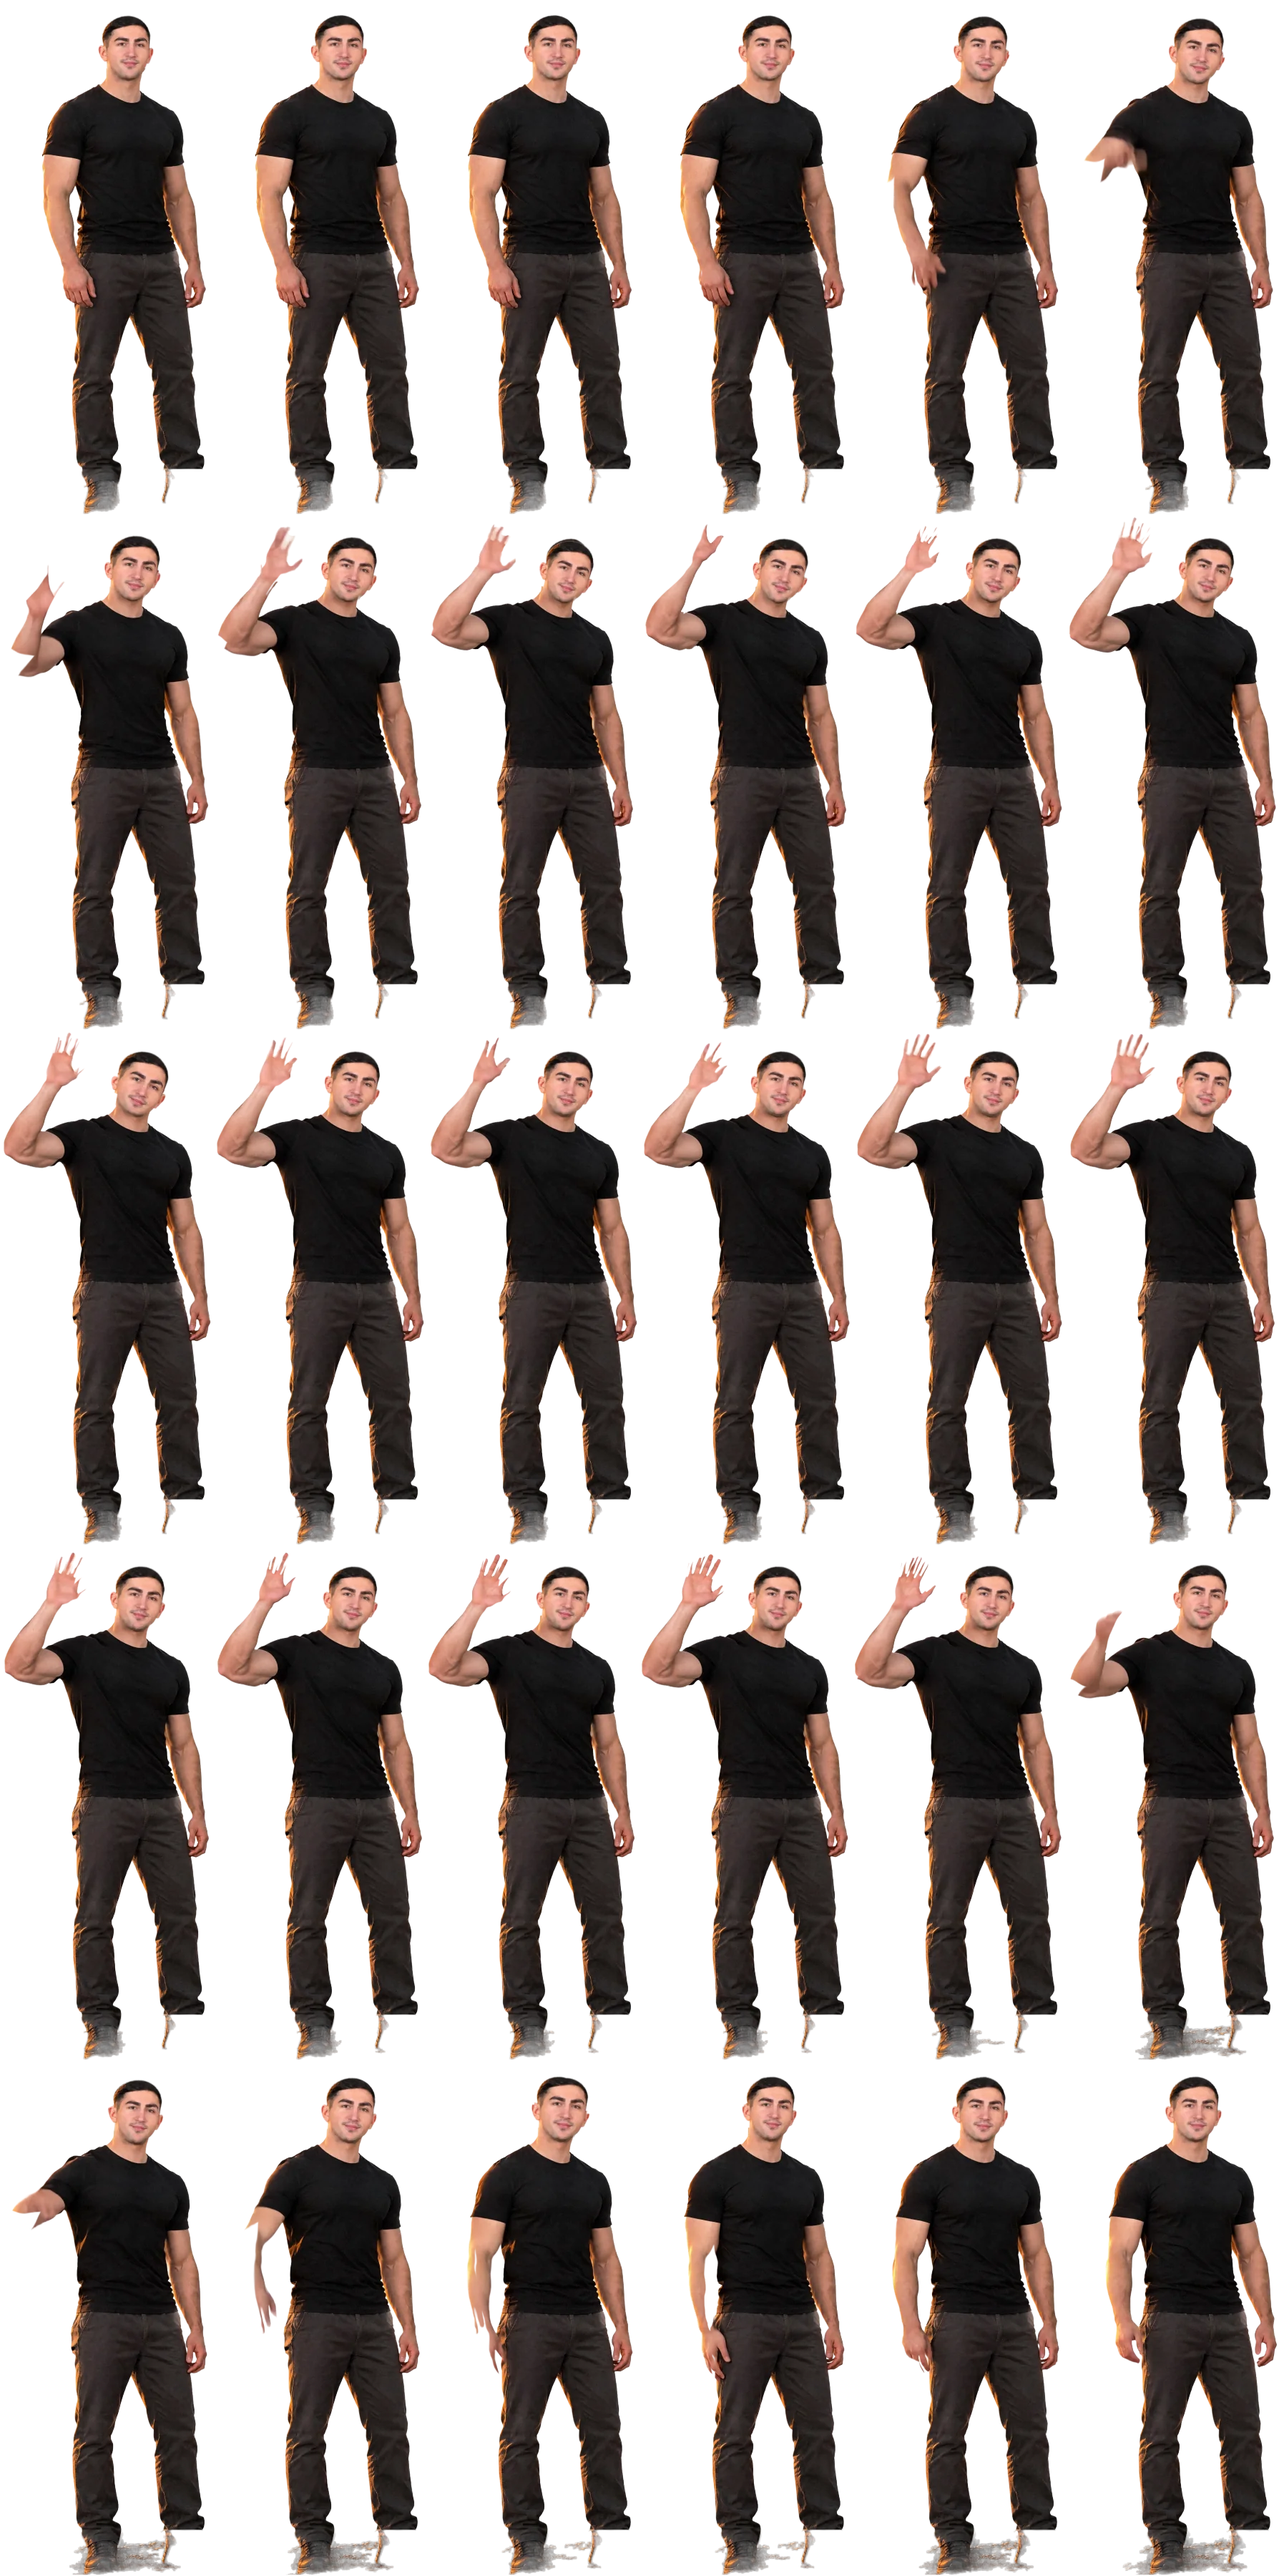
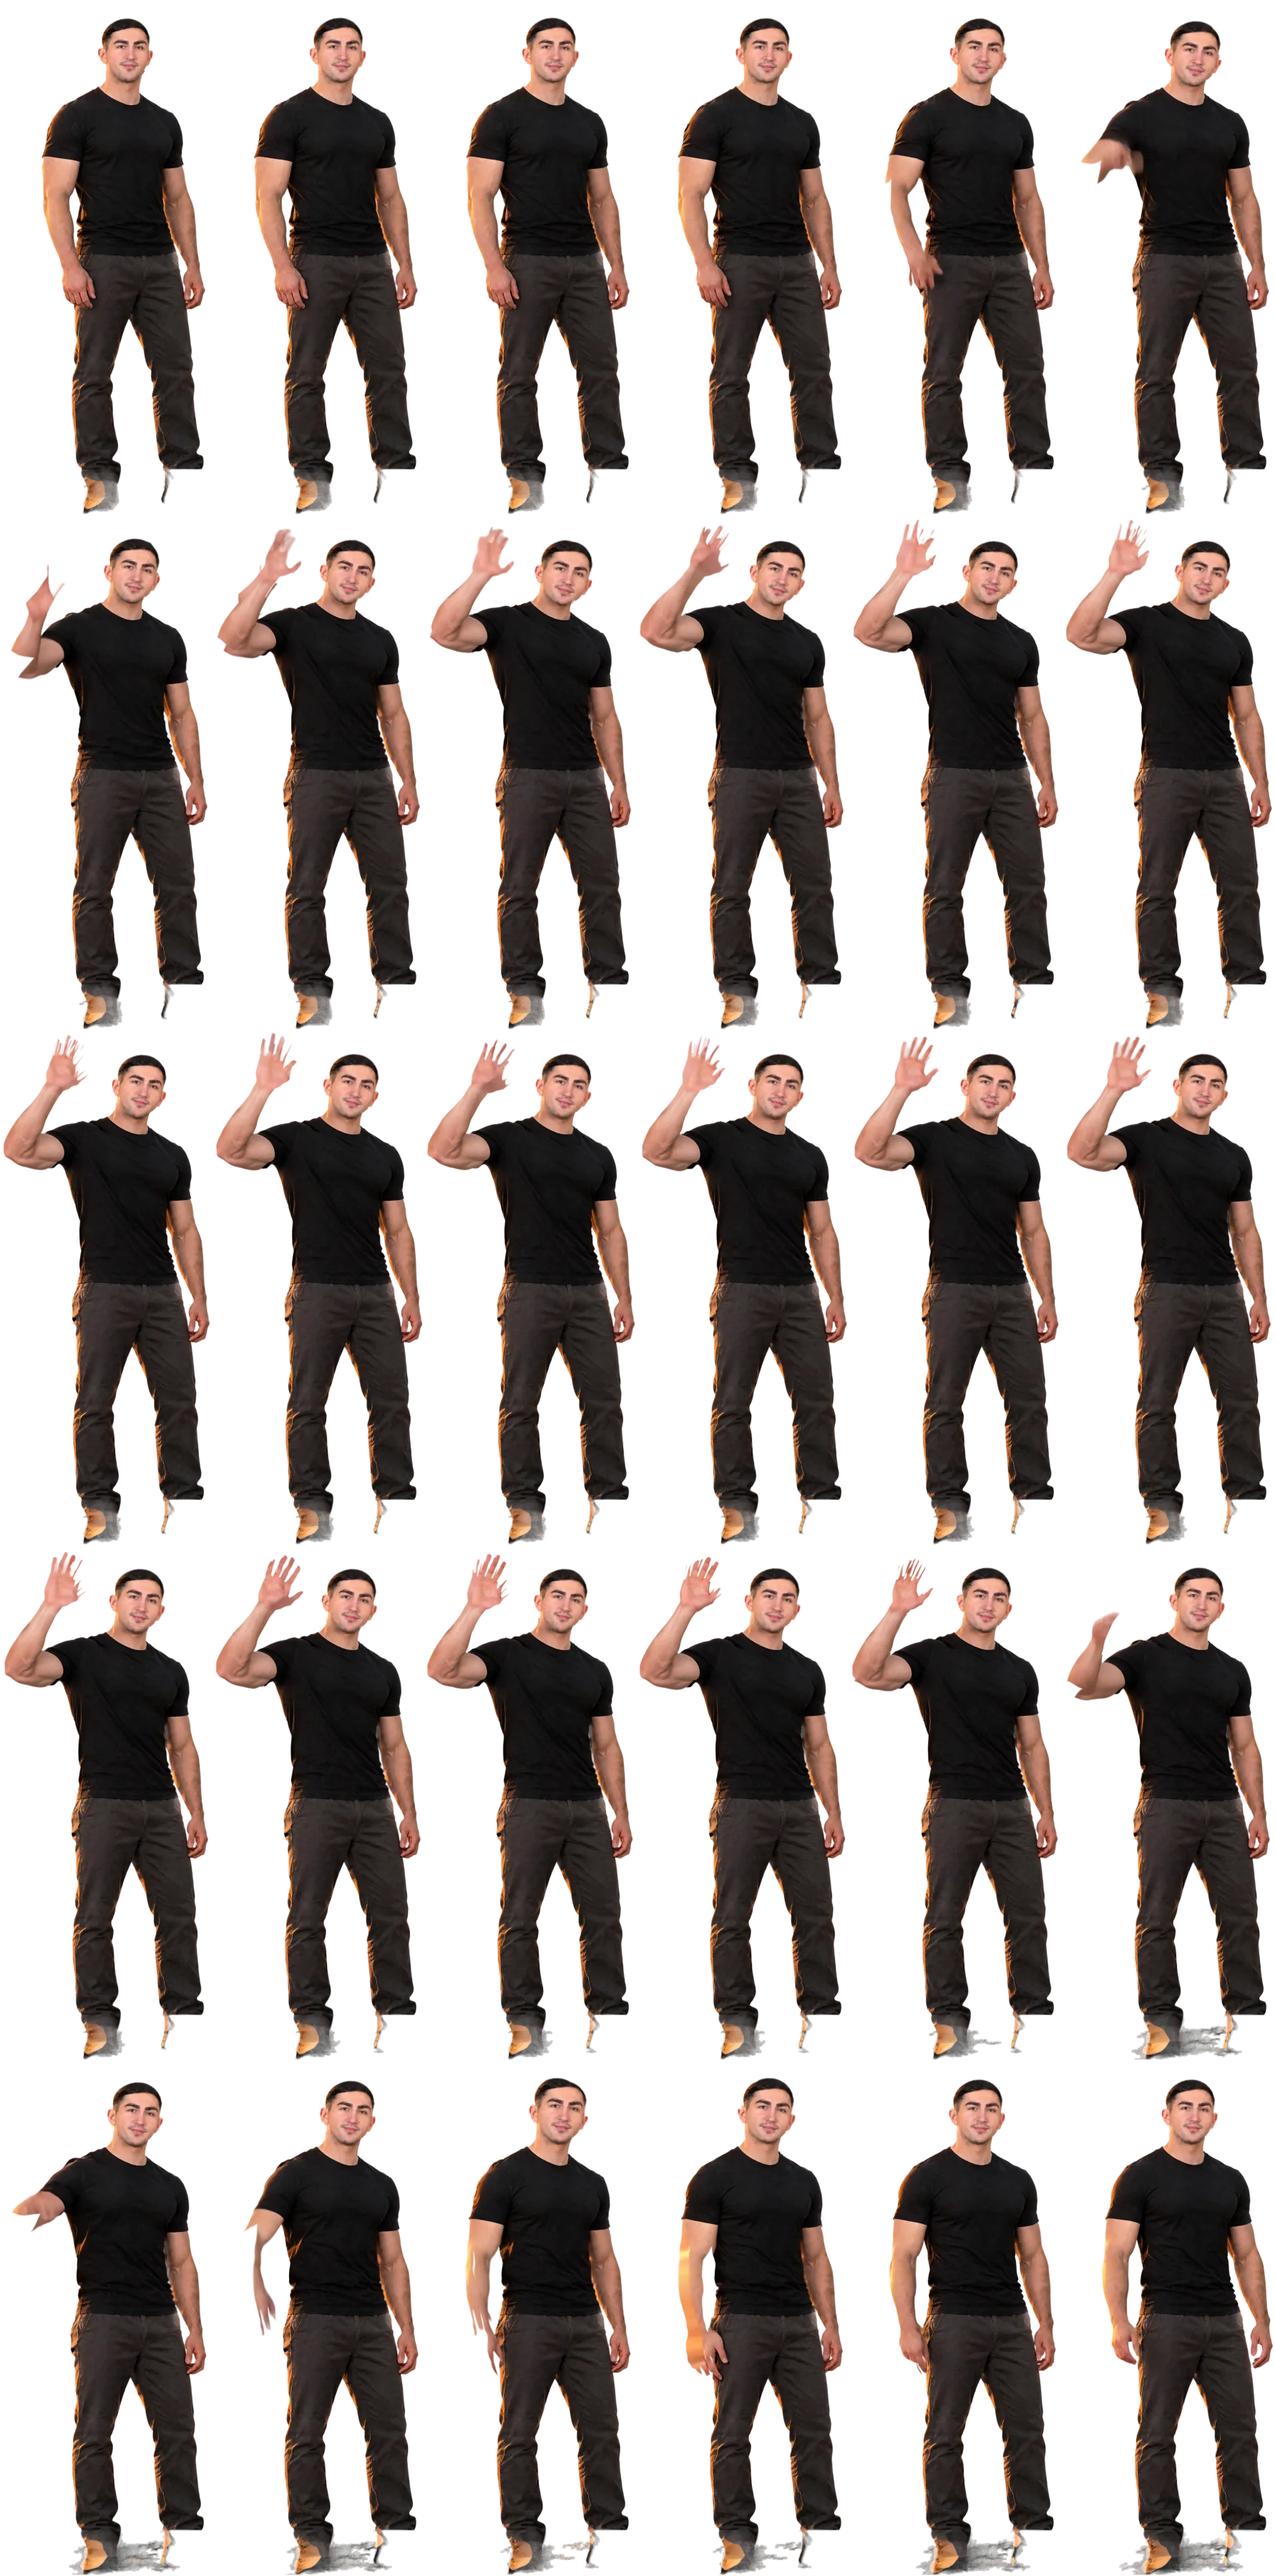
Winken: Hand vollständig, helle Ränder mit Haut gefüllt statt weggeschnitten

diff --git a/js/szene.js b/js/szene.js
@@ -522,12 +522,12 @@
      je Figur ein Tag- und ein Abendbild und für die Nacht die Bildfolge – der Hund hebt den Kopf und jault, Emre winkt
      („Tschüss“). Beides startet gemeinsam, sobald es Nacht ist und man weiterscrollt, und läuft dann in eigener Zeit ab
      (so sieht man es sicher, bevor endo Studio kommt); beim Hochscrollen läuft es rückwärts. */
-  var FIGUREN = { hund: { b: 318, h: 360, anzahl: 36, spalten: 6, fuss: 0.9921, oben: 0.0896, mitte: 0.4201, breite: 0.7716 }, emre: { b: 298, h: 720, anzahl: 30, spalten: 6, fuss: 0.9957, oben: 0.0311, mitte: 0.5810, breite: 0.7673 } };
+  var FIGUREN = { hund: { b: 318, h: 360, anzahl: 36, spalten: 6, fuss: 0.9921, oben: 0.0896, mitte: 0.4201, breite: 0.7716 }, emre: { b: 297, h: 720, anzahl: 30, spalten: 6, fuss: 0.9958, oben: 0.0364, mitte: 0.5801, breite: 0.7662 } };
   var fig = { phase: 0, ziel: 0, laeuft: false, t: 0 }, FIG_DAUER = 3.6, lichtGold = 0, lichtBlau = 0, lichtNacht = 0;
   function figurLaden(name, folge) {
     var f = FIGUREN[name], b = new Image(); b.decoding = 'async';
     b.onload = function () { f[folge ? 'folge' : 'bild'] = b; f.zuletzt = ''; figurenZeichnen(); };
-    b.src = 'bilder/hero/figuren/' + name + (folge ? '-folge' : '') + '.webp?v=4';
+    b.src = 'bilder/hero/figuren/' + name + (folge ? '-folge' : '') + '.webp?v=5';
   }
   Object.keys(FIGUREN).forEach(function (k) { FIGUREN[k].zuletzt = ''; figurLaden(k, false); });
   /* die Bildfolgen (groß) erst nach dem Laden der Seite */

diff --git a/index.html b/index.html
@@ -703,7 +703,7 @@ img { display: block; max-width: 100%; height: auto; }
   </nav>
 </footer>
 
-<script src="js/szene.js?v=23"></script>
+<script src="js/szene.js?v=24"></script>
 <script>
 /* Navigation beim Runterscrollen ausblenden, Inhalte einmal sanft einblenden */
 (function () {

diff --git a/LIESMICH.md b/LIESMICH.md
@@ -15,7 +15,7 @@
 
 
 ## Figuren: Licht zur Laufzeit (26.09.2026, 05:30, Claude Code)
-- `figuren.py` schreibt jetzt `bilder/hero/figuren/<name>.webp` (Bild 0, neutral) und `<name>-folge.webp` (Raster, neutral, `figuren_stil.neutral`: nur Glätten + Korn); die alten `-tag/-gold/-nacht` sind gelöscht. `mitte`/`breite` stehen direkt im json. Weiße Bewegungsränder nur noch außerhalb eines 9-px-Innenrands und bei mn > 175 / Sättigung < 0,12.
+- `figuren.py` schreibt jetzt `bilder/hero/figuren/<name>.webp` (Bild 0, neutral) und `<name>-folge.webp` (Raster, neutral, `figuren_stil.neutral`: nur Glätten + Korn); die alten `-tag/-gold/-nacht` sind gelöscht. `mitte`/`breite` stehen direkt im json. Weiße Bewegungsränder (außerhalb 9-px-Innenrand, mn > 175, Sättigung < 0,12) und das 3-px-Kantenband werden per `cv2.inpaint` mit der Haut gefüllt statt aus der Maske entfernt. `szene.js?v=24`, Figuren `?v=5`.
 - `js/szene.js` (`?v=23`, Figuren `?v=4`): `FIGLICHT` (tag/gold/blau/nacht: `mul` multiplikativ, `lift` additiv, `rim` + `ra`), `figurLicht()` mischt sequentiell mit `lichtGold`, `lichtBlau` (= sanft 0,18–0,3), `lichtNacht` aus `licht()`. `figurZeichnen()`: Hilfsleinwände `lwA/lwB/lwC` – Bild (Zwischenbilder additiv) → Umriss merken → multiply + lighter + destination-in → Saum = Umriss minus versetzter Umriss (source-in Saumfarbe) mit Alpha `ra`. Cache-Schlüssel enthält die drei Lichtwerte (2 Stellen). `stand` 0,148 H (hoch 0,124).
 
 ## Teil 6: echtes Gesicht, Winken 2, Himmel (26.09.2026, 04:40, Claude Code)
